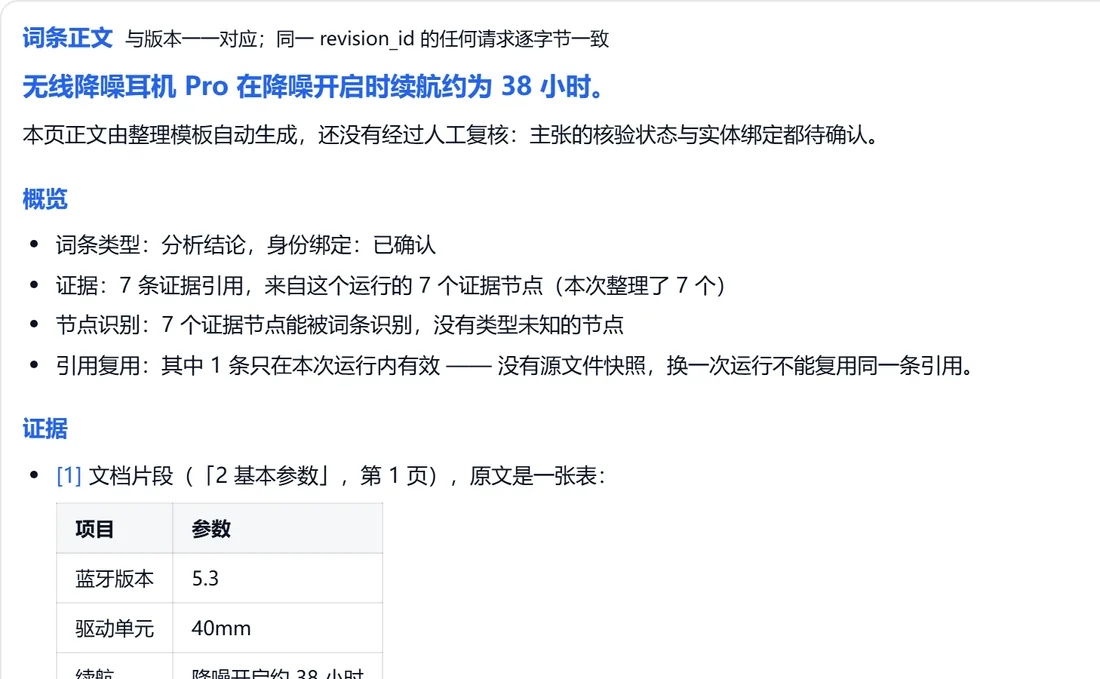
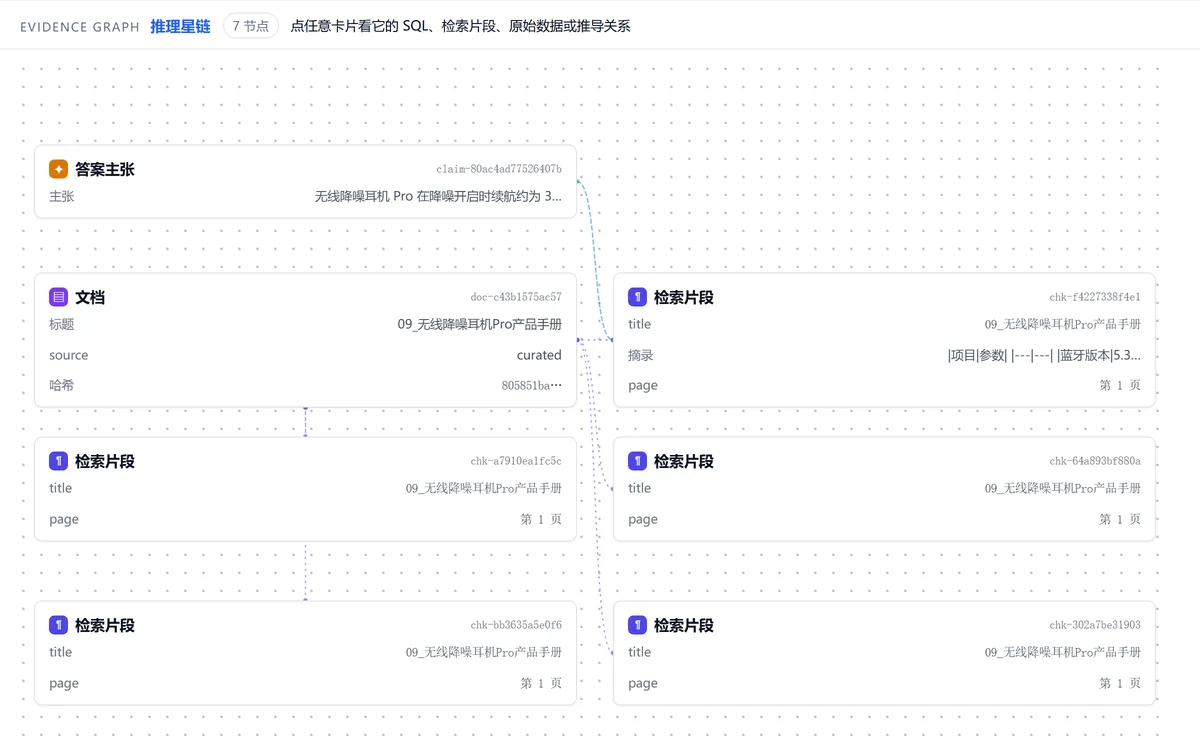
fix(landing): 右框截图换成「证据轨迹」推理星链页（原来错放了词条正文卡）
用户：「第二个图放图二这个页面啊」—— 指的是 #/app 的「证据轨迹」标签（卡片式推理链），
不是上一版放的「词条正文」卡（那是 wiki 词条的 body_markdown 渲染结果，属文本内容）。

- reasoning-card.webp 重截：1440×900 视口、dsf 2、clip 页面坐标 (240, 67.5, 1200, 740)，
  抓 2400×1480 后 LANCZOS 降到 1200×740，WebP q82 method 6 -> 41,816 B（原 53,404 B）。
  与 wiki-graph.webp 同为 1200×740，两框均 628×387、aspect-ratio 934/576、等高。
  画面含 EVIDENCE GRAPH 标题行 + 左列「答案主张 / 文档 / 检索片段 ×3」+ 右列「检索片段 ×4」
  与卡片间虚线连线；卡片包围盒 x274–1396 / y212–773，无一被裁。
- **MainPage.vue 不支持用 hash/query 指定 tab**（activeView 初值硬编码 'chat'，只有两个
  button 的 @click 会改它，onMounted 只读 session/panel/q/mode）。所以截图必须真实点击
  [data-testid=tab-graph]。先用会话深链 #/app?session=sess-2714a043…（该会话的
  run-894b0785725c45f3 正是用户那张图里的 claim-80ac4ad7…/doc-c43b1575…/chk-f42273…，
  7 节点 6 边 1 claim），再点 tab，router.replace 不发重载、activeView 保持 graph。
- 文案同步：
  figcaption  推理卡片 · 词条正文与证据引用  ->  证据轨迹 · 推理链与检索片段
  alt         证据轨迹：答案主张、来源文档与检索片段连成的推理链
  说明第二句  另一张是其中一条词条的推理卡片：主张、概览、证据引用与原文出处都写在同一张卡上。
            -> 另一张是一次问答的证据轨迹：一条答案主张、它的来源文档与检索片段，
                连线表示推导关系。
- 复用 _shots/landing_assets.mjs（只加 clipBox 助手 + clipbox 步骤），Pillow 用项目 .venv
  里已有的，未装任何依赖。中间误写进仓库根的 _probe_*.py 已移出到 _shots/。

验证：npm run deploy 通过（新资源 reasoning-card-BUdqaeYs.webp 41.82 kB，wiki-graph 未变）；
pytest tests/test_frontend_views.py + test_frontend_hygiene.py -> 56 passed, 22 subtests；
截图核对：右框是推理星链页（可见 claim-/doc-/chk- 卡片与连线），不是词条正文卡，
无变形、关键内容未裁；500 窄屏两图上下堆叠、无横向溢出；
git diff --stat: reasoning-card.webp Bin 53404 -> 41816、LandingPage.vue 3 insertions 3 deletions；
[…]

diff --git a/frontend/src/views/LandingPage.vue b/frontend/src/views/LandingPage.vue
@@ -269,7 +269,7 @@ const steps = [
         <div class="eyebrow">Wiki &amp; Reasoning</div>
         <BlurText text="图谱看结构，卡片看依据" :delay="90" animate-by="words" class="blur-heading" />
         <p class="sec-note">
-          一张是当前授权范围图：节点是词条，连线是词条之间已保存的关系。另一张是其中一条词条的推理卡片：主张、概览、证据引用与原文出处都写在同一张卡上。
+          一张是当前授权范围图：节点是词条，连线是词条之间已保存的关系。另一张是一次问答的证据轨迹：一条答案主张、它的来源文档与检索片段，连线表示推导关系。
         </p>
       </div>
 
@@ -286,10 +286,10 @@ const steps = [
         <figure class="showcase-item">
           <div class="showcase-frame">
             <img class="showcase-img" :src="reasoningCardShot"
-                 alt="推理卡片：词条正文、概览与证据引用"
+                 alt="证据轨迹：答案主张、来源文档与检索片段连成的推理链"
                  loading="lazy" decoding="async" />
           </div>
-          <figcaption class="showcase-cap">推理卡片 · 词条正文与证据引用</figcaption>
+          <figcaption class="showcase-cap">证据轨迹 · 推理链与检索片段</figcaption>
         </figure>
       </div>
     </section>
